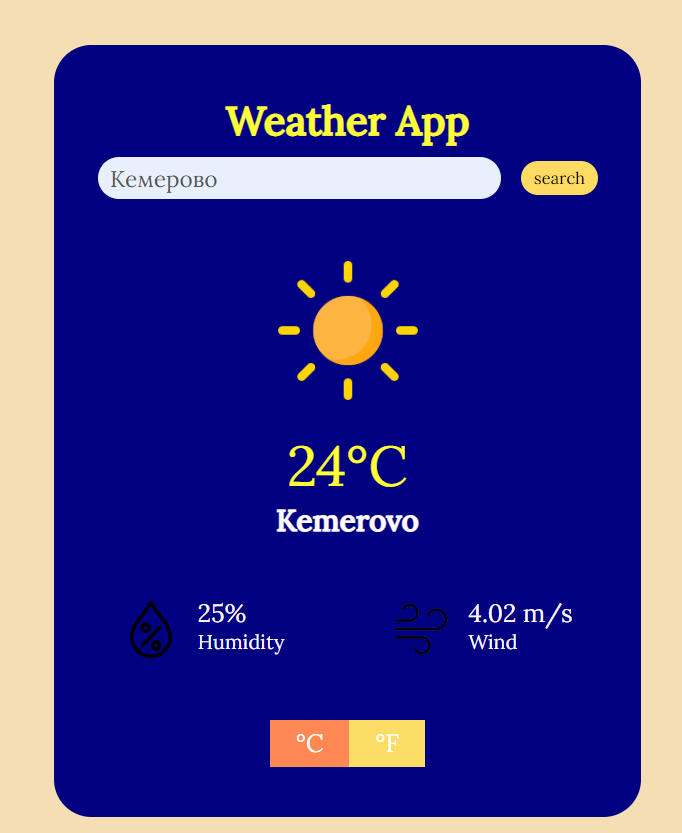
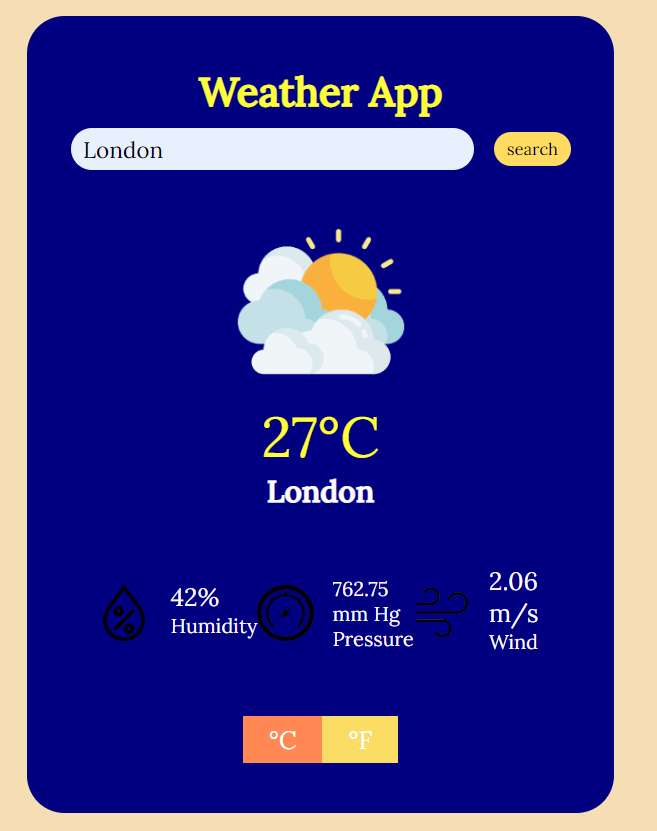
update card details
add barometr

diff --git a/src/index.html b/src/index.html
@@ -29,7 +29,7 @@
         <div class="weather">
             <img src="images/clouds.png" alt=" clouds" class="weather-icon" />
             <h1 id="temp" class="temp"></h1>
-            <h2 class="city">Lagos, NG</h2>
+            <h2 class="city">Kemerovo</h2>
         <!-- Weather Section end -->
 
         <!-- Card section start -->
@@ -38,17 +38,25 @@
                 <img src="../images/humidity.png" alt="humidity" />
 
                 <div class="card-details">
-                    <p class="humidity">66%</p>
+                    <p class="humidity"></p>
                     <p>Humidity</p>
                 </div>
             </div>
 
+            <div class="col">
+                <img src="../images/barometr.png" alt="pressure" />
+
+                <div class="card-details">
+                    <p class="pressure"></p>
+                    <p>Pressure</p>
+                </div>
+            </div>
 
             <div class="col">
                 <img src="../images/wind.png" alt="wind" />
 
                 <div class="card-details">
-                    <p class="wind">1013</p>
+                    <p class="wind"></p>
                     <p>Wind</p>
                 </div>
             </div>

diff --git a/src/index.js b/src/index.js
@@ -23,6 +23,7 @@ async function checkWeather(city) {
     document.querySelector(".temp").innerHTML = tempCelcius + "°C";
     document.querySelector(".humidity").innerHTML = data.main.humidity + "%";
     document.querySelector(".wind").innerHTML = data.wind.speed + " m/s";
+    document.querySelector(".pressure").innerHTML = data.main.pressure * 0.750 + " mm Hg";
 
     if (data.weather[0].main === "Clouds") {
       weather_icon.src = "../images/clouds.png";

diff --git a/README.md b/README.md
@@ -6,7 +6,7 @@ Weather app - веб приложение погоды которое предо
 Закрепить изученный материал по Javascript и CSS, а также работу над приложением в браузере.
 ## Plan
 5.06.23 - 11.06.23 - Создание шаблона для работы API с помощщью заглушек. <br/>
-12.06.23 - 18.06.23 - Замена данных и настройка single page application. <br/> 
+12.06.23 - 18.06.23 - Замена данных, разбиение на модули, настройка single page application. <br/> 
 19.06.23 - 30.06.23 - Доработка веб-приложения и исправления багов. <br/>
 ## Authors
 Chikulaev Vladislav - frontend developer <br/>
